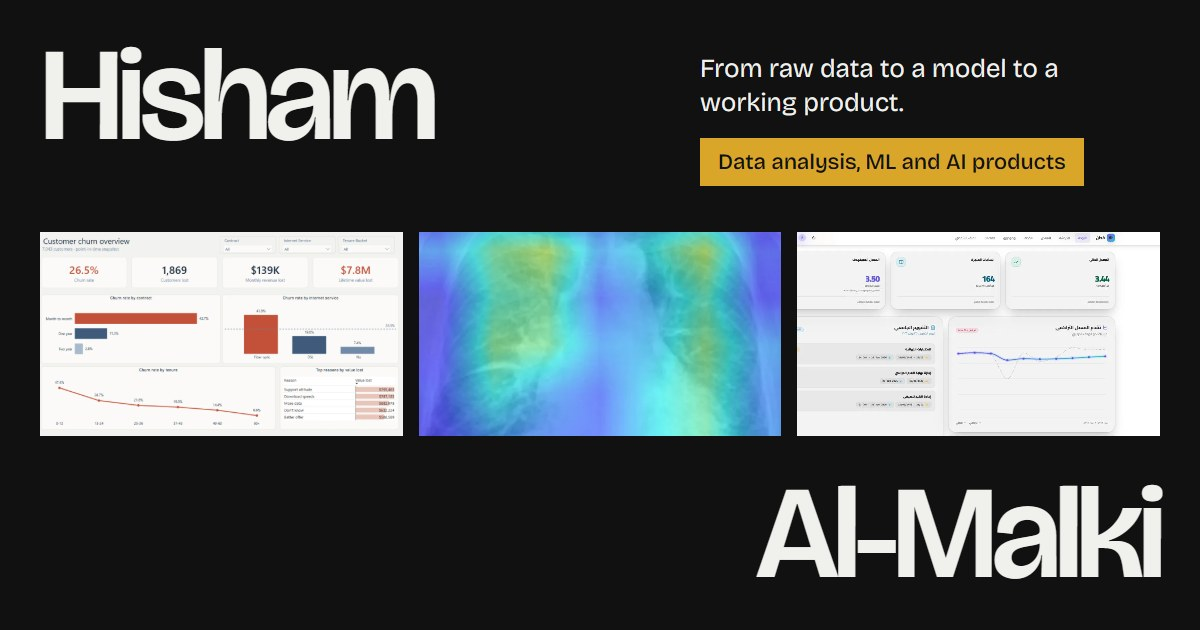
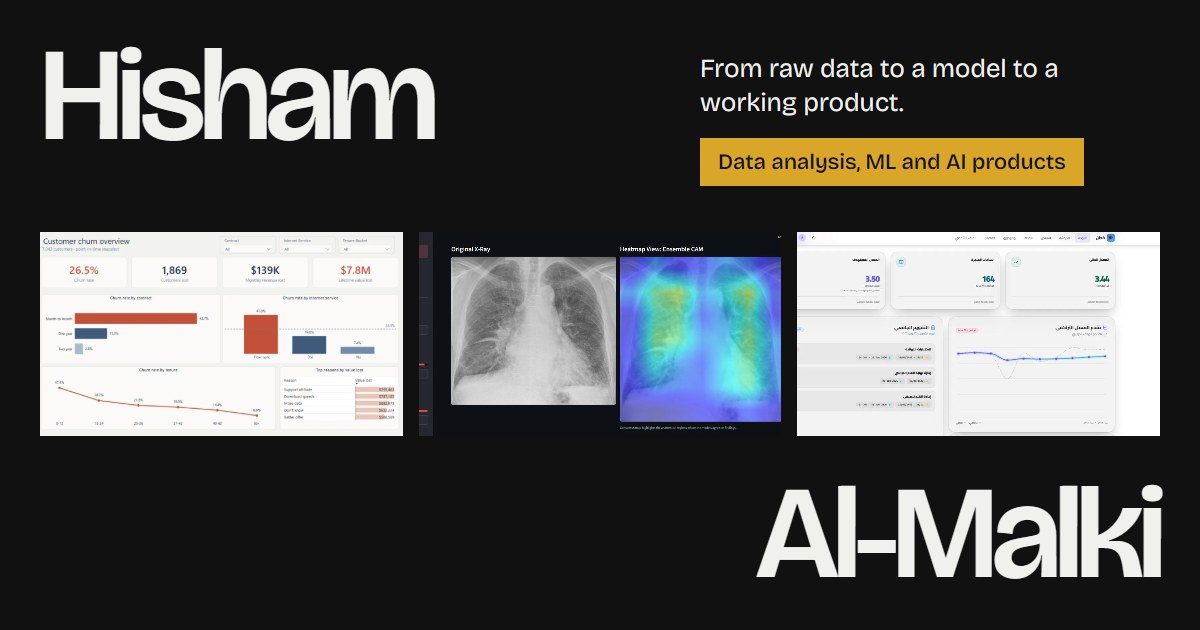
Show the edema app screenshots taken on the CC0 X-ray
The clinical-report screen is the product frame (hero, Hand me a problem,
work index) and the share image; the per-model votes screen is the model
frame in Hand me a problem. Both are cropped in CSS from whole screens.

Changed region(s): [[0.3392, 0.3619, 0.6783, 0.6937]]

diff --git a/src/data/projects.js b/src/data/projects.js
@@ -1,13 +1,13 @@
-import { screenshot, optionalScreenshot, natural } from './images.js'
+import { screenshot, wholeScreenshot, natural } from './images.js'
 
 // Edema imagery all derives from one CC0 radiograph (credited in site.js):
-// the X-ray itself, the app's Ensemble CAM output for it, and, once
-// `raw-images/projects/pulmonary-edema-1-app.png` exists and `npm run images`
-// has run, the app screenshot with that same X-ray loaded.
+// the X-ray itself, the app's Ensemble CAM output for it, and two app
+// screenshots with that same X-ray loaded, kept whole by the image pipeline.
 const EDEMA_RATIO = 626 / 697
 const edemaXray = natural('edema-xray', EDEMA_RATIO)
 const edemaCam = natural('edema-gradcam', EDEMA_RATIO)
-const edemaApp = optionalScreenshot('pulmonary-edema', 1)
+const edemaReport = wholeScreenshot('pulmonary-edema', 1, 882 / 1889)
+const edemaVotes = wholeScreenshot('pulmonary-edema', 2, 883 / 1897)
 
 // The three stages every project is shown through. Sections read this list,
 // so the "Hand me a problem" chain, the case blocks and the skill map all stay
@@ -126,35 +126,22 @@ export const projects = [
         detail:
           'DenseNet121 (TorchXRayVision), ResNet50, EfficientNet-B0 and ConvNeXt-Tiny, each fine-tuned for normal versus edema, averaged in a soft-voting ensemble with an agreement indicator and Grad-CAM for every model.',
         frame: {
-          kind: 'list',
-          title: 'Ensemble, soft vote',
-          ordered: true,
-          items: [
-            ['DenseNet121', 'TorchXRayVision'],
-            ['ResNet50', 'torchvision'],
-            ['EfficientNet-B0', 'torchvision'],
-            ['ConvNeXt-Tiny', 'torchvision'],
-          ],
-          foot: '0.974–0.979 ROC-AUC per model on a held-out test set (team-reported)',
+          kind: 'image',
+          image: edemaVotes,
+          alt: 'The app’s per-model votes for the example X-ray: EfficientNet-B0 99.8%, ResNet50 100.0% and ConvNeXt-Tiny 89.5% edema probability, above its research-only disclaimer',
+          position: 'left center',
         },
       },
       product: {
         verb: 'Shipped',
         line: 'A Streamlit app with a heatmap for every prediction.',
         detail: 'A live Streamlit app that classifies an uploaded chest X-ray and explains each prediction with Grad-CAM.',
-        frame: edemaApp
-          ? {
-              kind: 'image',
-              image: edemaApp,
-              alt: 'The Streamlit app with the example chest X-ray loaded, showing its ensemble prediction and Grad-CAM heatmap',
-            }
-          : {
-              kind: 'image',
-              image: edemaCam,
-              alt: 'The app’s Ensemble CAM: the Grad-CAM heatmap of all four networks over the example chest X-ray',
-              position: 'center',
-              caption: 'Ensemble Grad-CAM output', // says what the picture is until the app screenshot exists
-            },
+        frame: {
+          kind: 'image',
+          image: edemaReport,
+          alt: 'The Streamlit app with the example chest X-ray loaded beside its Ensemble Grad-CAM heatmap',
+          position: '72% center',
+        },
       },
     },
     extra: [

diff --git a/src/data/images.js b/src/data/images.js
@@ -39,8 +39,15 @@ const pack = (list, ratio) => {
 /** A 16:9 project screenshot: screenshot('telco-churn', 1) */
 export const screenshot = (slug, n) => pack(shots[`${slug}/${n}`], 9 / 16)
 
-/** Like screenshot(), but null when the file has not been generated yet. */
-export const optionalScreenshot = (slug, n) => (shots[`${slug}/${n}`] ? screenshot(slug, n) : null)
+/**
+ * A screenshot the pipeline kept whole (KEEP_WHOLE), with its real ratio.
+ * Frames cover-crop these wide screens, magnifying them beyond what `sizes`
+ * says, so only the largest file is offered.
+ */
+export const wholeScreenshot = (slug, n, ratio) => {
+  const image = pack(shots[`${slug}/${n}`], ratio)
+  return { ...image, srcSet: undefined }
+}
 
 /** A natural-ratio image from src/assets/credentials or src/assets/figures. */
 export const natural = (name, ratio) => pack(naturals[name], ratio)
